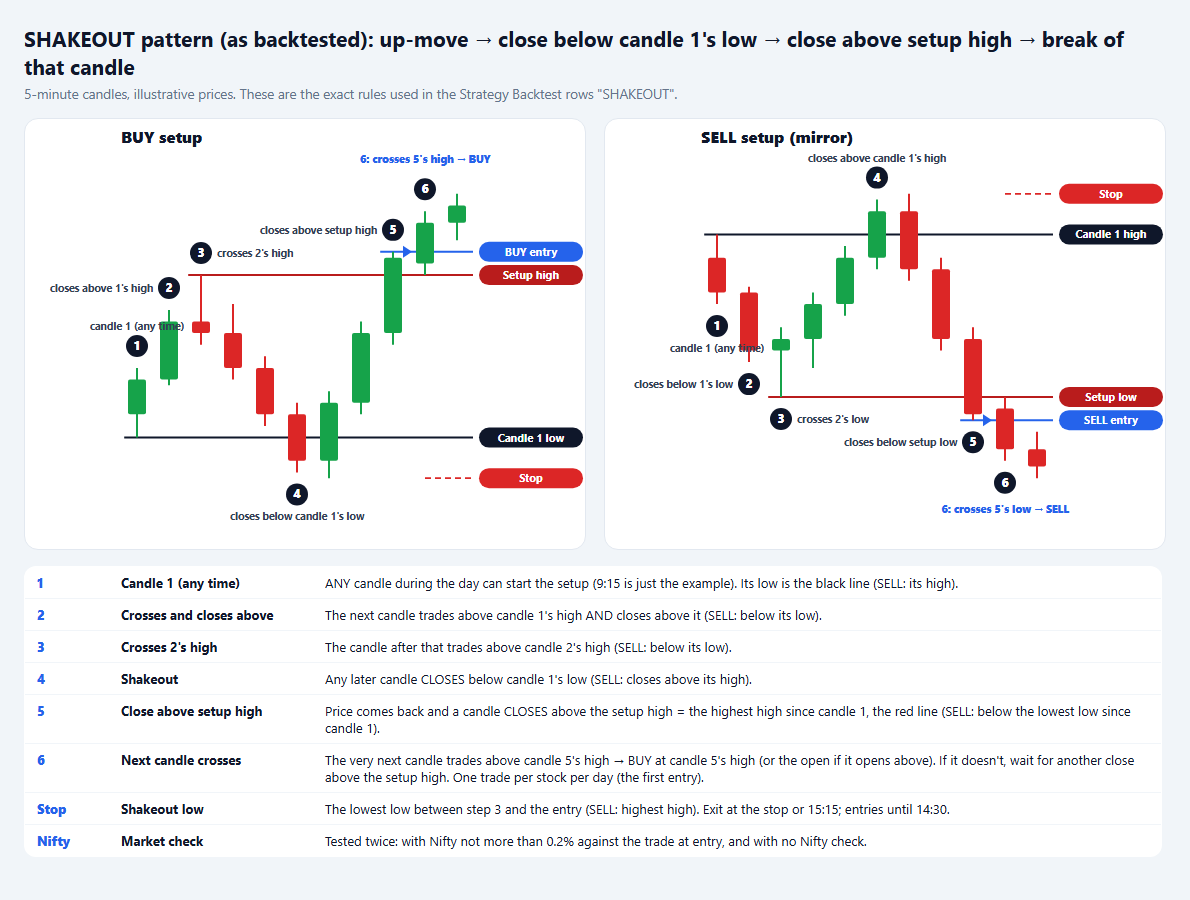
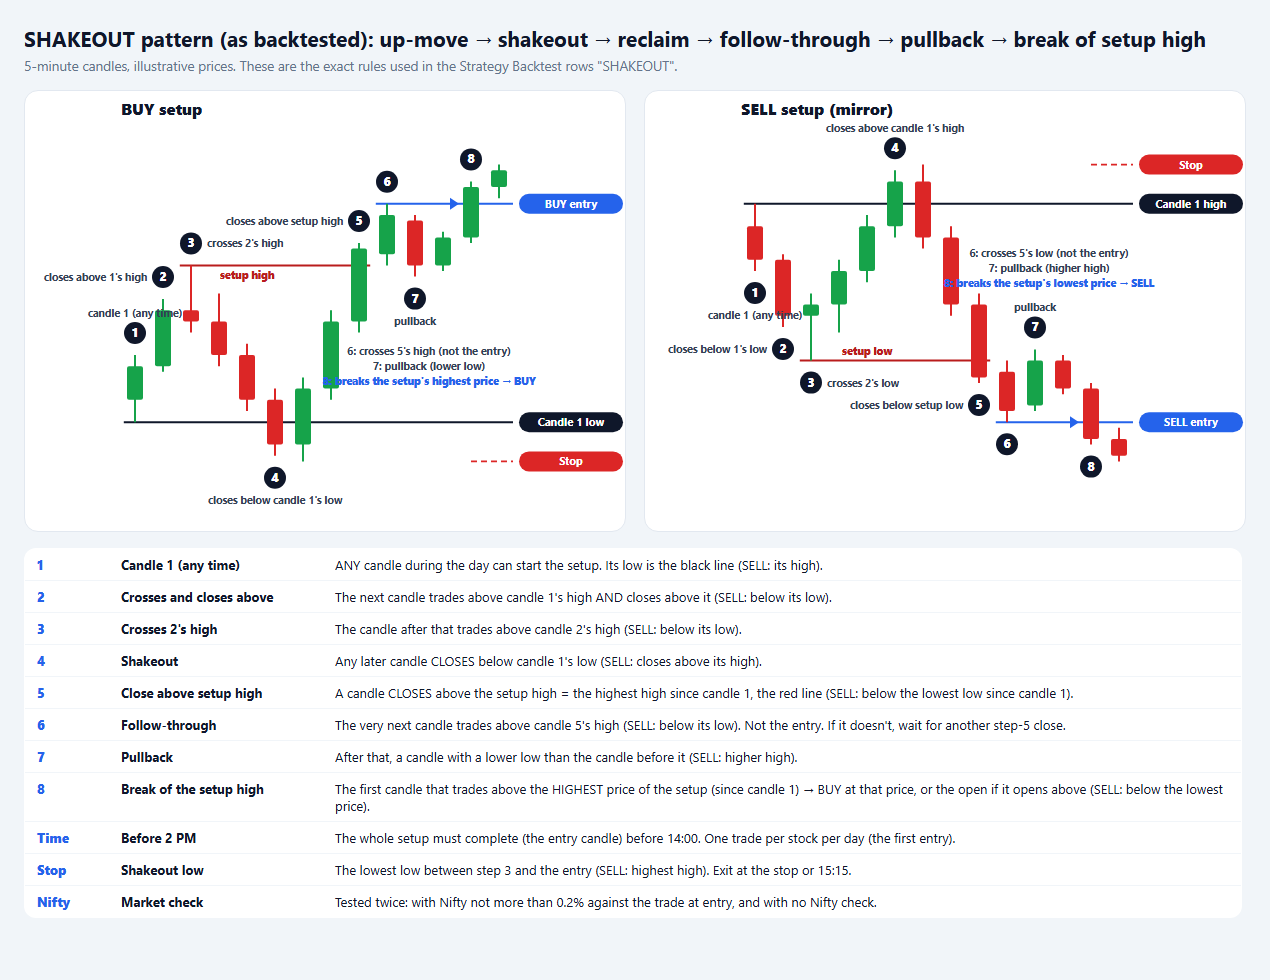
improved study material

diff --git a/server/backtest/run.js b/server/backtest/run.js
@@ -32,7 +32,7 @@ const SLIPPAGE = Number(getArg("slippage", 0.02)) / 100;
 const SQUARE_OFF_MINUTE = 15 * 60 + 10; // exit at close of the 15:10 candle = 15:15, same as the signals
 const MIN_GAP_PCT = 2;
 const TOP_STOCKS = 100;
-const LAST_ENTRY_MINUTE = 14 * 60 + 30; // no new entries after 14:30, same as the signals
+const SHAKEOUT_DEADLINE_MINUTE = 14 * 60; // the shakeout setup must complete (entry) before 14:00
 
 // ---------- data ----------
 
@@ -190,11 +190,12 @@ function gapFadeTrade({ symbol, day, candles, prevClose, prevDayChange, niftyCha
 //  3. the next candle trades above 2's high
 //  4. shakeout: a later candle closes below 1's low
 //  5. a candle closes above the setup high (highest high since candle 1)
-//  6. the very next candle trades above 5's high -> BUY at 5's high (or the open if it opens above);
-//     if it doesn't, wait for another close above the setup high
-// Stop = lowest low between candle 3 and the entry. With opts.niftyMax, Nifty must not be more than that %
-// against the trade at the entry candle. Exit at the stop or 15:15; entries until 14:30. If several setups
-// form in a day, the first entry is taken.
+//  6. the very next candle trades above 5's high (if it doesn't, wait for another close above the setup high)
+//  7. a pullback candle (lower low than the candle before it)
+//  8. a candle breaks the highest price of the setup -> BUY at that price (or the open if it opens above)
+// The setup must complete before 14:00. Stop = lowest low between candle 3 and the entry. With
+// opts.niftyMax, Nifty must not be more than that % against the trade at the entry candle. Exit at the stop
+// or 15:15. If several setups form in a day, the first entry is taken.
 function shakeoutTrade({ symbol, day, candles, niftyChange }, opts) {
   let best = null;
   for (const side of ["long", "short"]) {
@@ -236,23 +237,33 @@ function findShakeoutEntry(candles, i, side) {
   let setupHigh = long ? Math.max(c1.high, c2.high, c3.high) : Math.min(c1.low, c2.low, c3.low);
   let stop = null;
   let shakenOut = false;
-  let reclaimIdx = null; // candle 5
+  let reclaimIdx = null; // candle 5, waiting for the next candle to cross its high
+  let followedThrough = false; // step 6 done, waiting for a pullback
+  let pulledBack = false; // step 7 done, waiting for a break of the setup high
   for (let k = i + 3; k < candles.length; k += 1) {
     const c = candles[k];
-    if (c.minute > LAST_ENTRY_MINUTE) return null;
-    if (reclaimIdx != null) {
-      const level = top(candles[reclaimIdx]);
-      if (beyond(top(c), level)) {
-        const price = long ? Math.max(level, c.open) : Math.min(level, c.open);
-        return { idx: k, price, stop };
-      }
-      reclaimIdx = null; // the next candle didn't follow through: wait for another close beyond
+    const prev = candles[k - 1];
+    if (c.minute >= SHAKEOUT_DEADLINE_MINUTE) return null; // the setup must complete before 14:00
+
+    if (pulledBack && beyond(top(c), setupHigh)) {
+      // step 8: breaks the highest price of the setup -> enter at that price (or the open if beyond it)
+      const price = long ? Math.max(setupHigh, c.open) : Math.min(setupHigh, c.open);
+      return { idx: k, price, stop };
     }
+    if (followedThrough && !pulledBack && beyond(bottom(prev), bottom(c))) {
+      pulledBack = true; // step 7: lower low than the candle before (SELL: higher high)
+    } else if (reclaimIdx != null) {
+      if (beyond(top(c), top(candles[reclaimIdx]))) {
+        followedThrough = true; // step 6: the next candle crosses candle 5's high
+      }
+      reclaimIdx = null;
+    }
+
     stop = stop == null || beyond(stop, bottom(c)) ? bottom(c) : stop;
     if (!shakenOut) {
-      if (beyond(bottom(c1), c.close)) shakenOut = true; // step 4: closes beyond the 1st candle's low
-    } else if (beyond(c.close, setupHigh)) {
-      reclaimIdx = k; // step 5
+      if (beyond(bottom(c1), c.close)) shakenOut = true; // step 4: closes beyond candle 1's low
+    } else if (!followedThrough && reclaimIdx == null && beyond(c.close, setupHigh)) {
+      reclaimIdx = k; // step 5 (again, if an earlier step 6 didn't follow through)
     }
     setupHigh = long ? Math.max(setupHigh, c.high) : Math.min(setupHigh, c.low);
   }
@@ -371,7 +382,7 @@ function main() {
     { name: "TEST 3: Gap >= 2% fade, skip if yesterday moved >= 3% same way, Nifty check 0.4%", skipPrevMovePct: 3, niftyMax: 0.4 },
   ];
   const shakeoutVariants = [
-    { name: "SHAKEOUT: up-move, close below its 1st candle low, close above setup high, next candle breaks it, Nifty check 0.2%", niftyMax: 0.2 },
+    { name: "SHAKEOUT: up-move, shakeout, reclaim, follow-through, pullback, break of setup high (before 14:00), Nifty check 0.2%", niftyMax: 0.2 },
     { name: "SHAKEOUT: same setup, NO Nifty check", niftyMax: null },
   ];
   const trades = Object.fromEntries([...variants, ...shakeoutVariants].map((v) => [v.name, []]));
